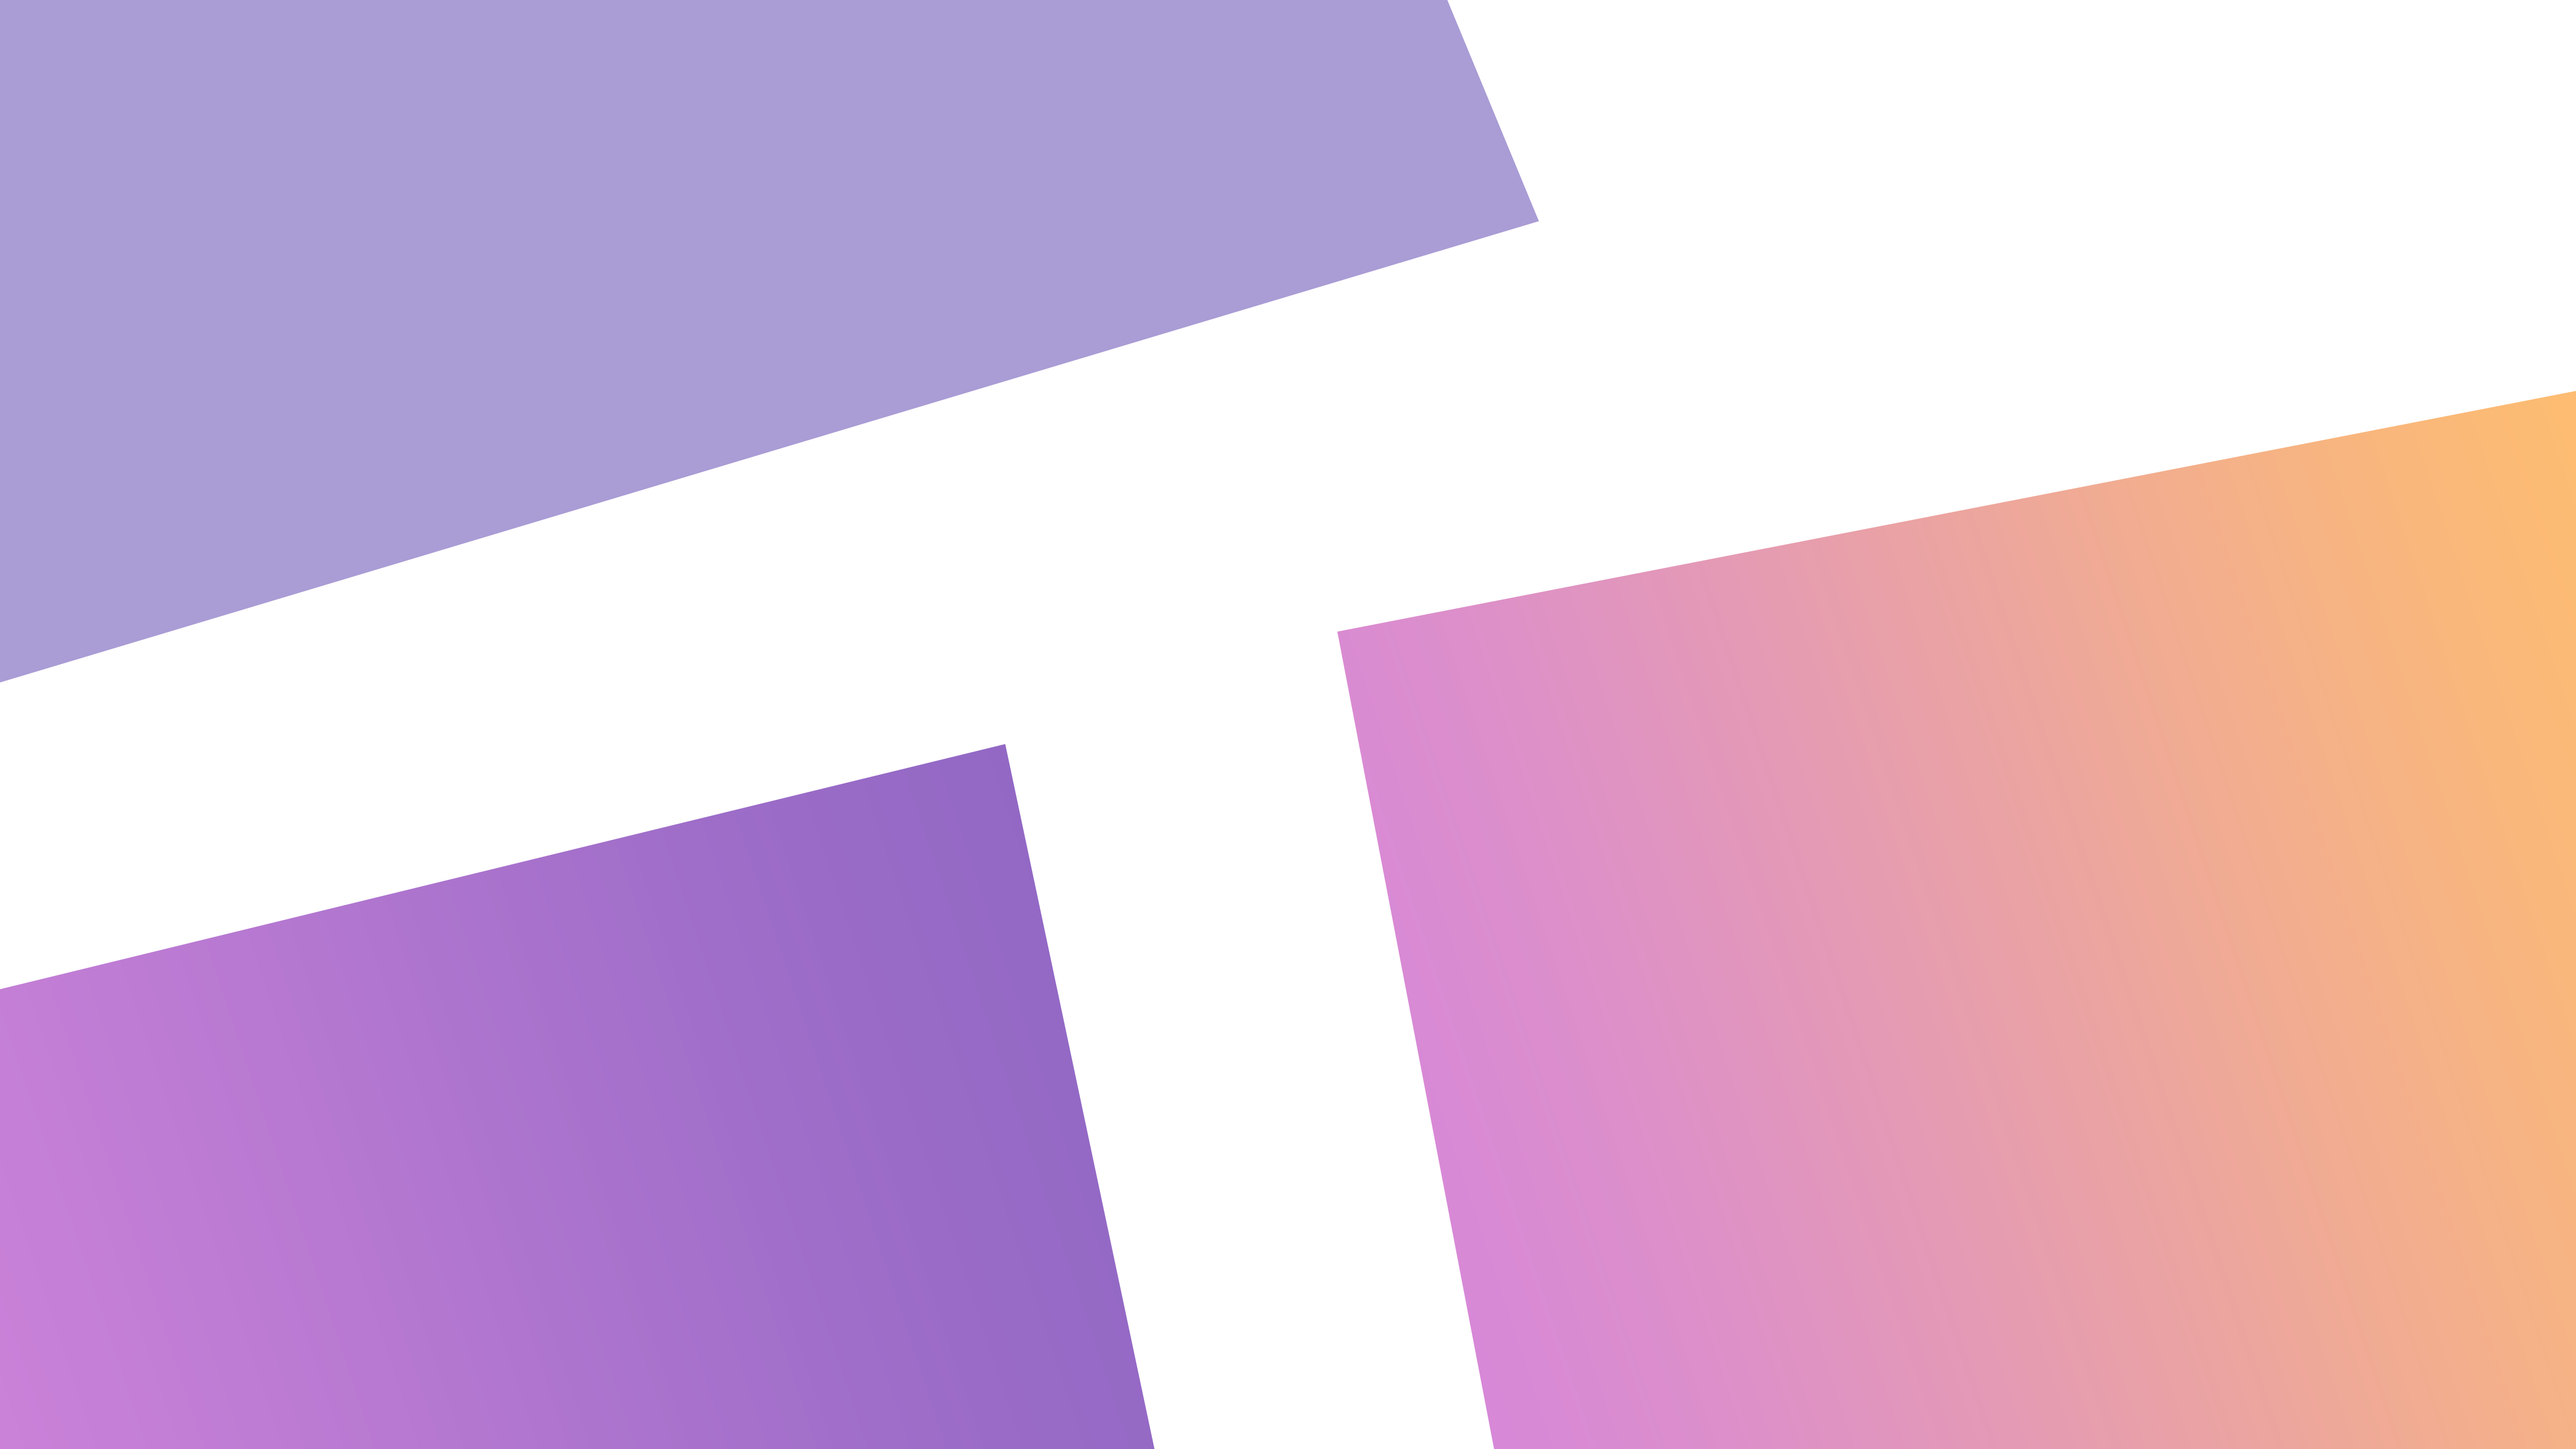
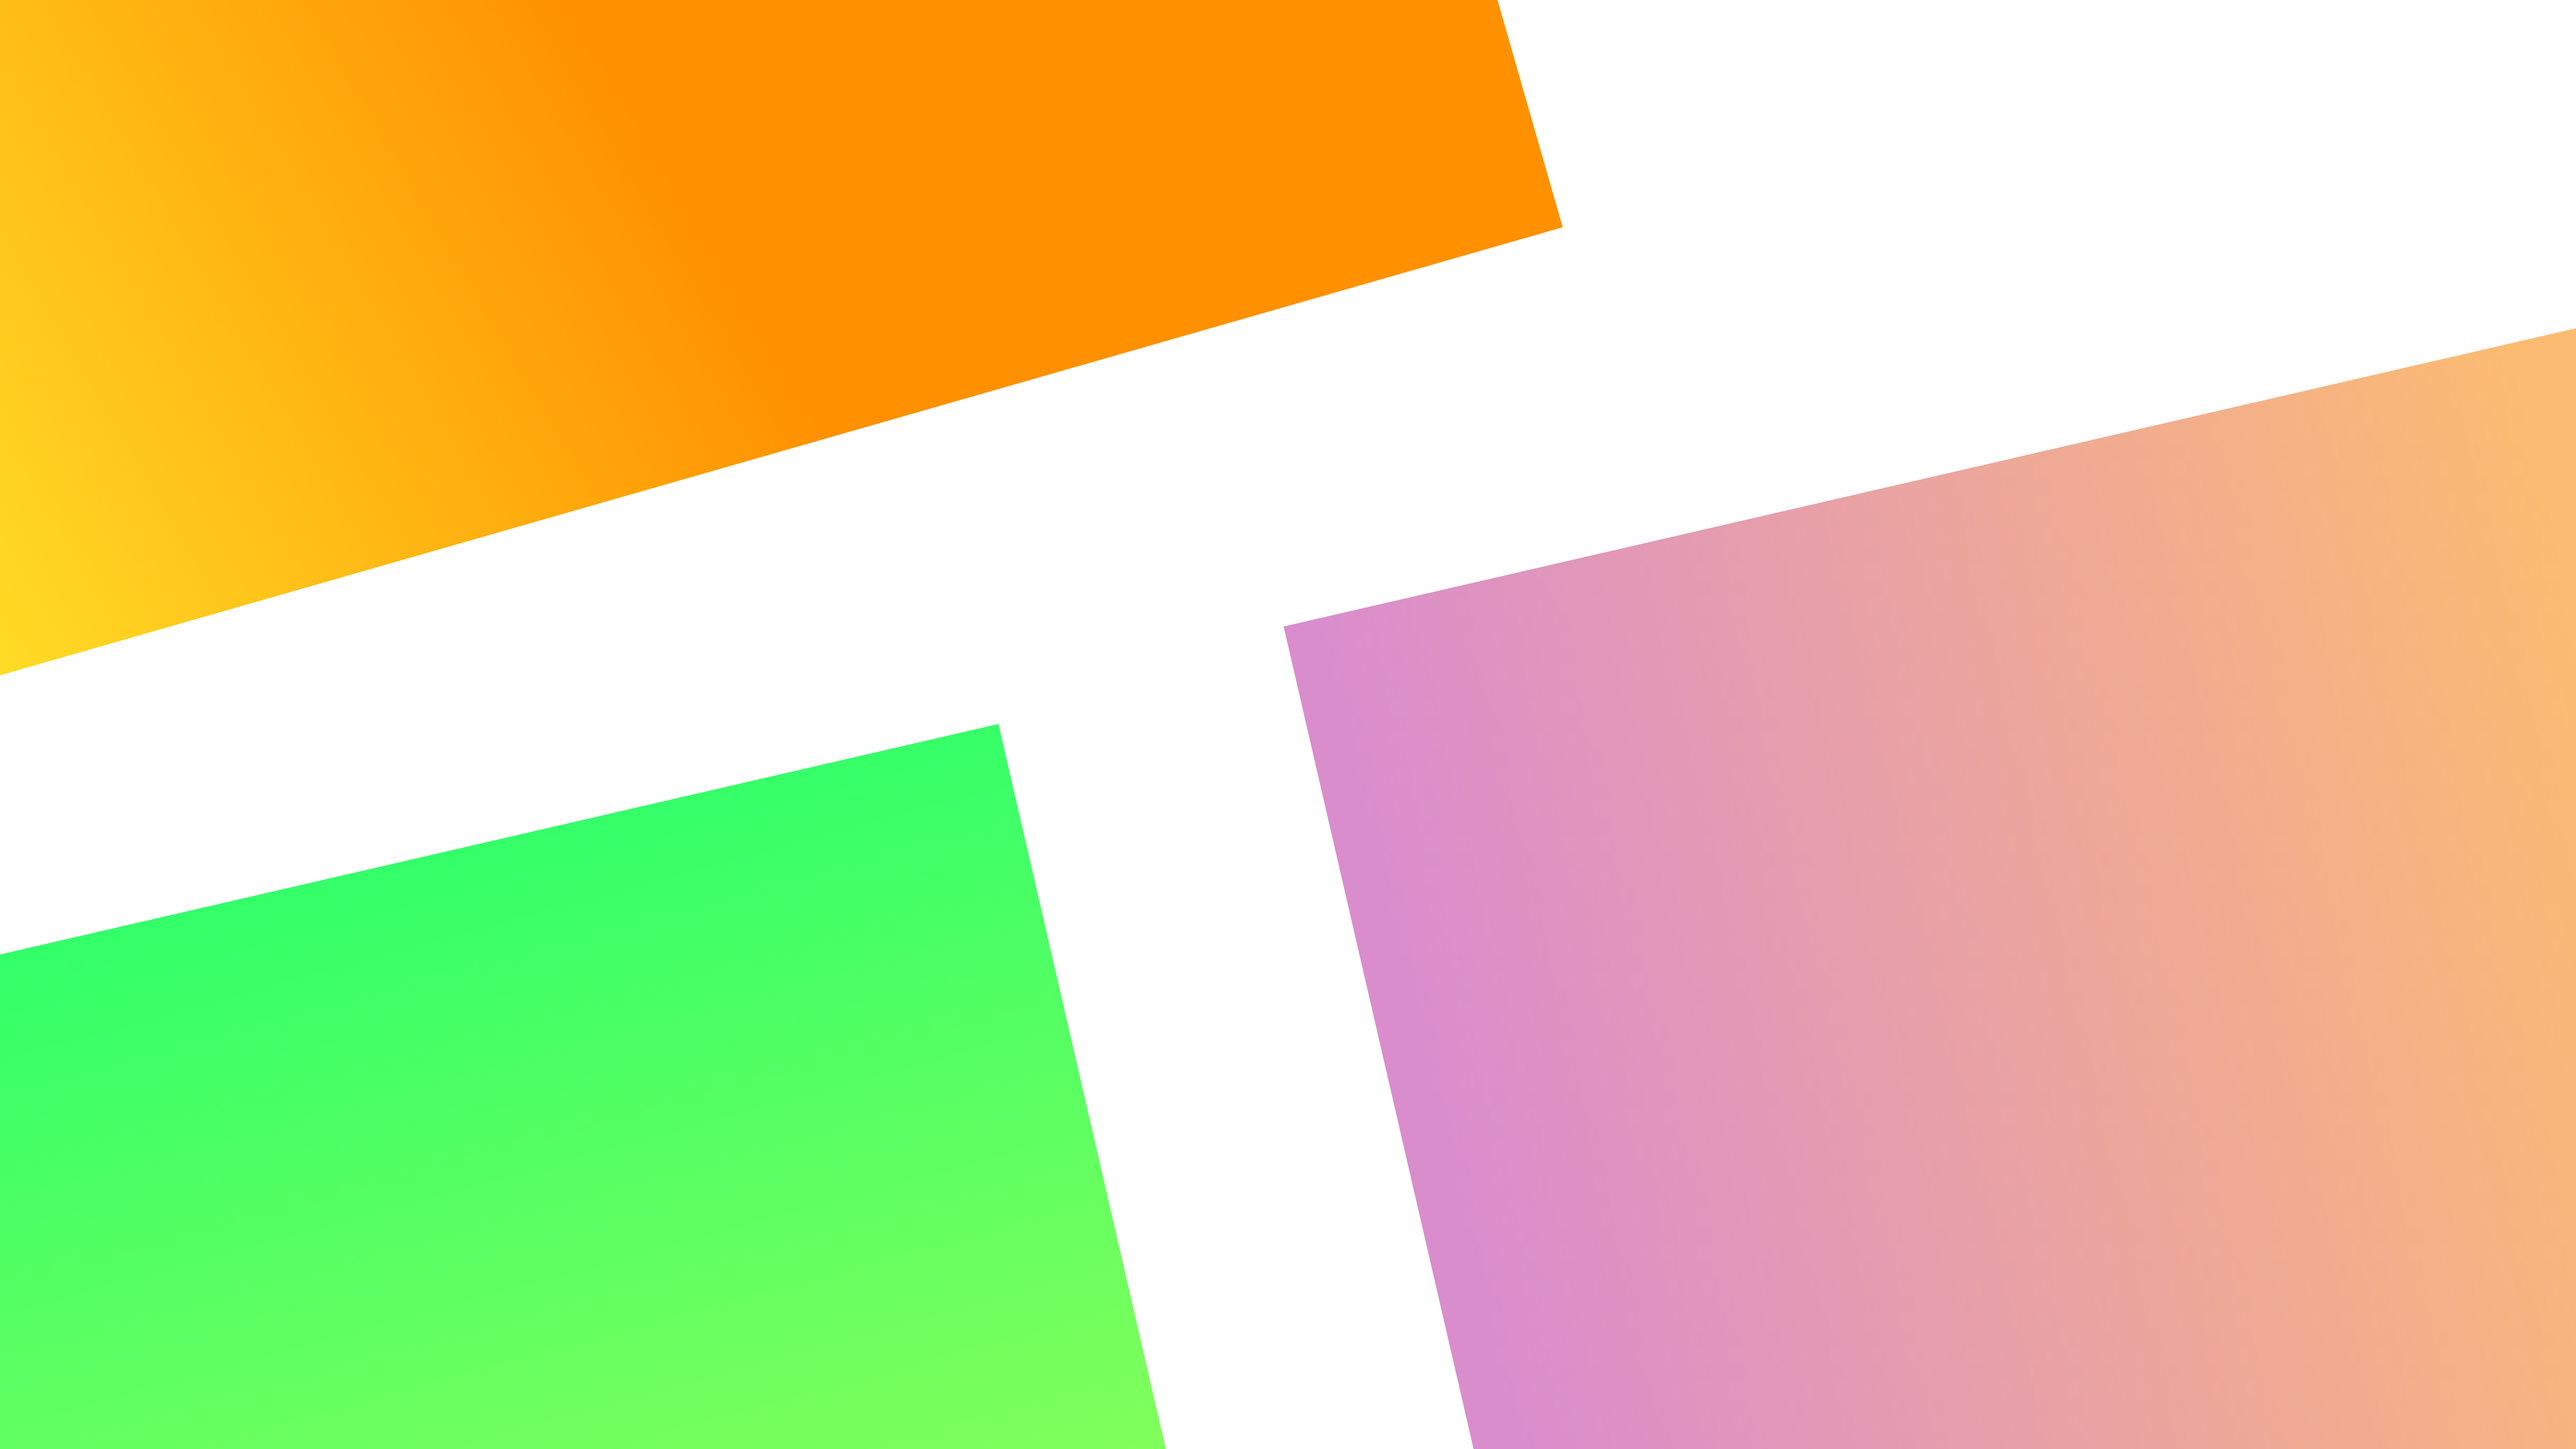
6:19 new update

diff --git a/index-s2.html b/index-s2.html
@@ -2,7 +2,7 @@
 <html lang="en">
 
 <head>
-	<title>Boova</title>
+	<title>Boova | Food Delivery & More</title>
 	<meta charset="utf-8" />
 	<meta name="viewport" content="width=device-width, initial-scale=1" />
 	<link rel="icon" href="image/favicon.png" type="image/gif" sizes="16x16">

diff --git a/css/style.css b/css/style.css
@@ -484,9 +484,9 @@ p.large {
   );
   background-image: linear-gradient(
     45deg,
-    #7356b6 0,
-    #d782d9 51%,
-    #7356b6 100%
+    #00ffb1 0,
+    #00ffb2 51%,
+    #00ffb3 100%
   );
 }
 
